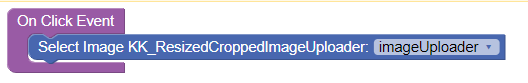
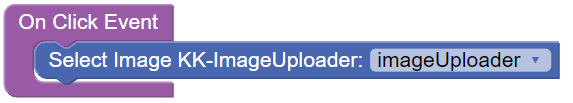
docu update

diff --git a/KK-ImageUploader/README.md b/KK-ImageUploader/README.md
@@ -5,6 +5,7 @@
 - Rotate the image
 - Crop an area of interest
 - Save the image to Backendless file system with reduced size (width, height) and reduced quality (for lossy image formats) and desired image type.
+- Select the cropping result for further processing by Backendless nocode logic.
 
 <br>
 
@@ -16,7 +17,7 @@
 
 ## General usage
 1. Place a Block-UI-component on a page where you want to display the preview of an image to be uploaded. Adjust the dimensions and other properties of this Block-component to your needs.
-2. Place the custom component ``KK_ResizedCroppedImageUploader`` into the Block-component. 
+2. Place the custom component ``KK_ImageUploader`` into the Block-component. 
 3. Fill the ``Id`` property of the custom component in the side panel. Otherwise, you will not be able to work with actions.
 4. Place buttons on your page. In the respective "On Click Event"-handlers call one of the custom component actions. An example how this can look like is shown here:
 
@@ -25,9 +26,9 @@
 By default, a resizable crop box is shown after an image has been selected.
 
 <br>
-<br>
 
 ## Properties
+<br>
 
 ### No Crop Box
 Boolean. If checked, no resizable crop area is shown above the image. Still, parts of the image can be cropped, by zooming-in and moving the image along the canvas. The save and crop action will then crop the visible part of the image.
@@ -43,6 +44,8 @@ See ``Min Canvas Width``.
 ## Actions
 For each nocode-block of an action, you have to select the ``Id`` of the custom component instance, which you placed on the page.
 
+<br>
+
 ### Select Image
 *Input parameters:* None
 
@@ -52,12 +55,16 @@ An image selection dialog is shown, which depends on the device. On mobiles, you
 
 ![On Click Handler](./assets/select.png)
 
+<br>
+
 ### Paste Image
 *Input parameters:* None
 
 An image is inserted from the device clipboard. If this is done for the first time, the device will ask for permissions for this operation. If you do not grant permission, the paste operation will fail. 
 
 > **Note:** The paste action does not work on all browsers (yet). For instance, Firefox is not supporting the required permission. Therefore, if you want to leverage this action, test with the browser versions relevant for you.
+
+<br>
 
 ### Rotate Image
 *Input parameters:* 
@@ -67,6 +74,7 @@ An image is inserted from the device clipboard. If this is done for the first ti
 
 ![On Click Handler](./assets/rotate.png)
 
+<br>
 
 ### Zoom In/Out
 *Input parameters:* 
@@ -77,6 +85,8 @@ An image is inserted from the device clipboard. If this is done for the first ti
 *Example*:
 
 ![On Click Handler](./assets/zoom.png)
+
+<br>
 
 ### Save Cropped Image
 Uploads the crop area of the image to the Backendless file system. An image can be scaled along its width or height dimension and the image encoding type can be chosen (jpeg, webp, png, etc.). For image types supporting lossy compression (e.g. jpeg, webp) the amount of compression can be specified.
@@ -97,7 +107,7 @@ Uploads the crop area of the image to the Backendless file system. An image can 
 
 
 
-
+<br>
 
 ### Get Cropped Image
 Extracts the image from the canvas out of the current cropping area. The image can be further processed by Backendless codeless logic.
@@ -111,8 +121,17 @@ t.b.d.
 <br>
 <br>
 
+## Events
+
+### On Image Loaded
+...
+
+### On Paste Error
+...
+
+<br>
 
 ## Reused libraries and components
-This product includes the following external code libraries/components, which are not owned by the author of ``KK-ResizedCroppedImageUploader``, or ``KK-ResizedCroppedImageUploaderPro``:
+This product includes the following external code libraries/components, which are not owned by the author of ``KK-ImageUploader``, or ``KK-ImageUploaderPro``:
 
 - [Cropper.js](https://fengyuanchen.github.io/cropperjs/). Licensed under the [MIT License](https://github.com/fengyuanchen/cropperjs/blob/main/LICENSE).
